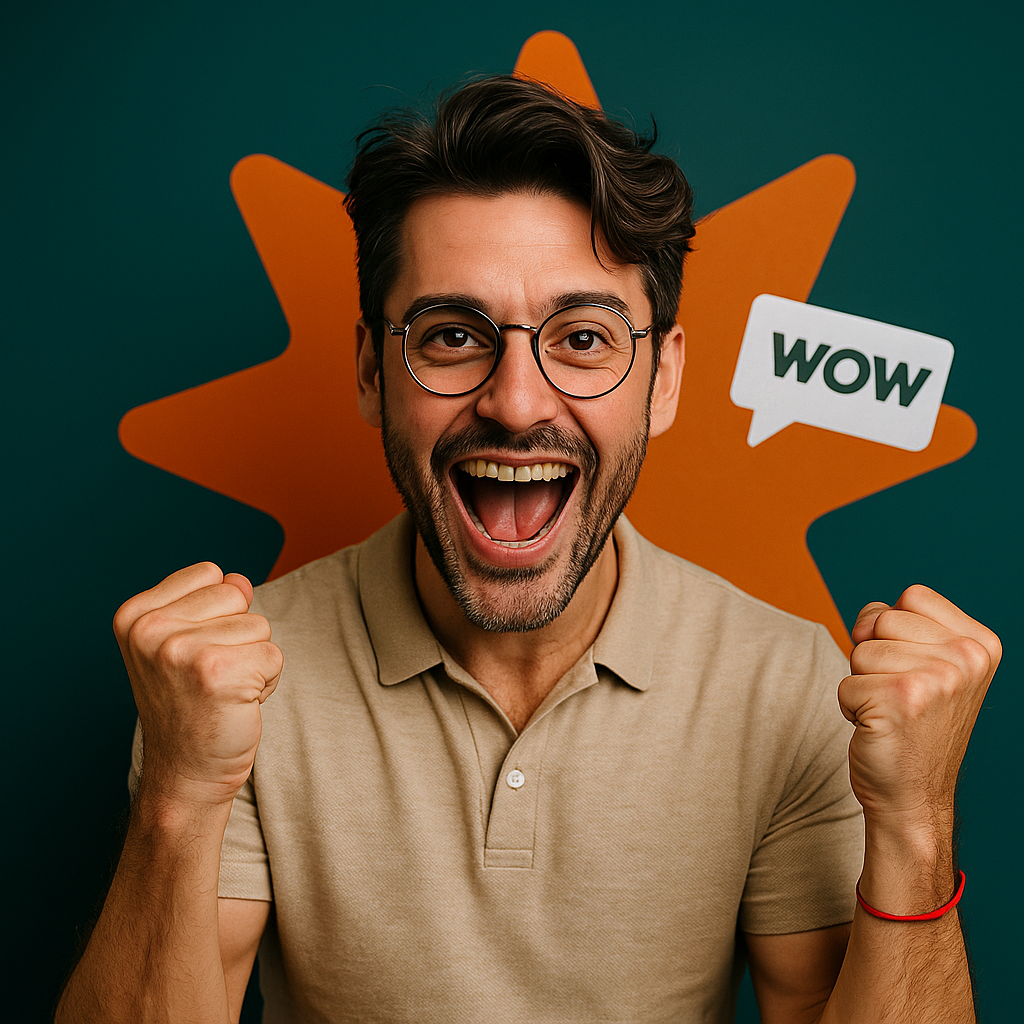
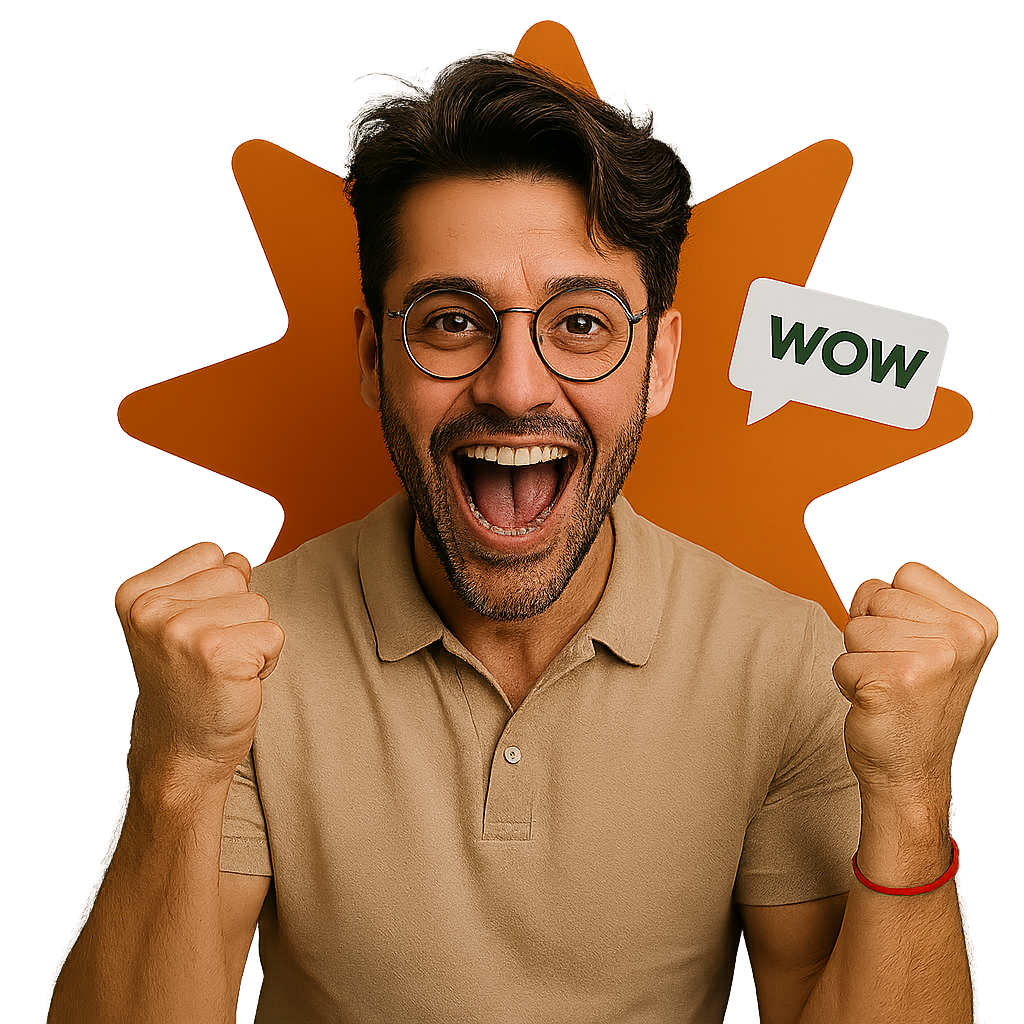
add wow man

diff --git a/components/Home/Banner/Slider2.js b/components/Home/Banner/Slider2.js
@@ -100,11 +100,11 @@ export const Slider2 = ({ isMobile }) => {
             </Text>
           </Div>
         </Div>
-        {/* {!isMobile && (
-          <Div width="20%">
-            <Image alt="wow-banner" src={wowBanner} />
+        {!isMobile && (
+          <Div width="40%">
+            <Image alt="wow-banner" height={400} src={wowBanner} />
           </Div>
-        )} */}
+        )}
       </Div>
     </Wrapper2>
   );
